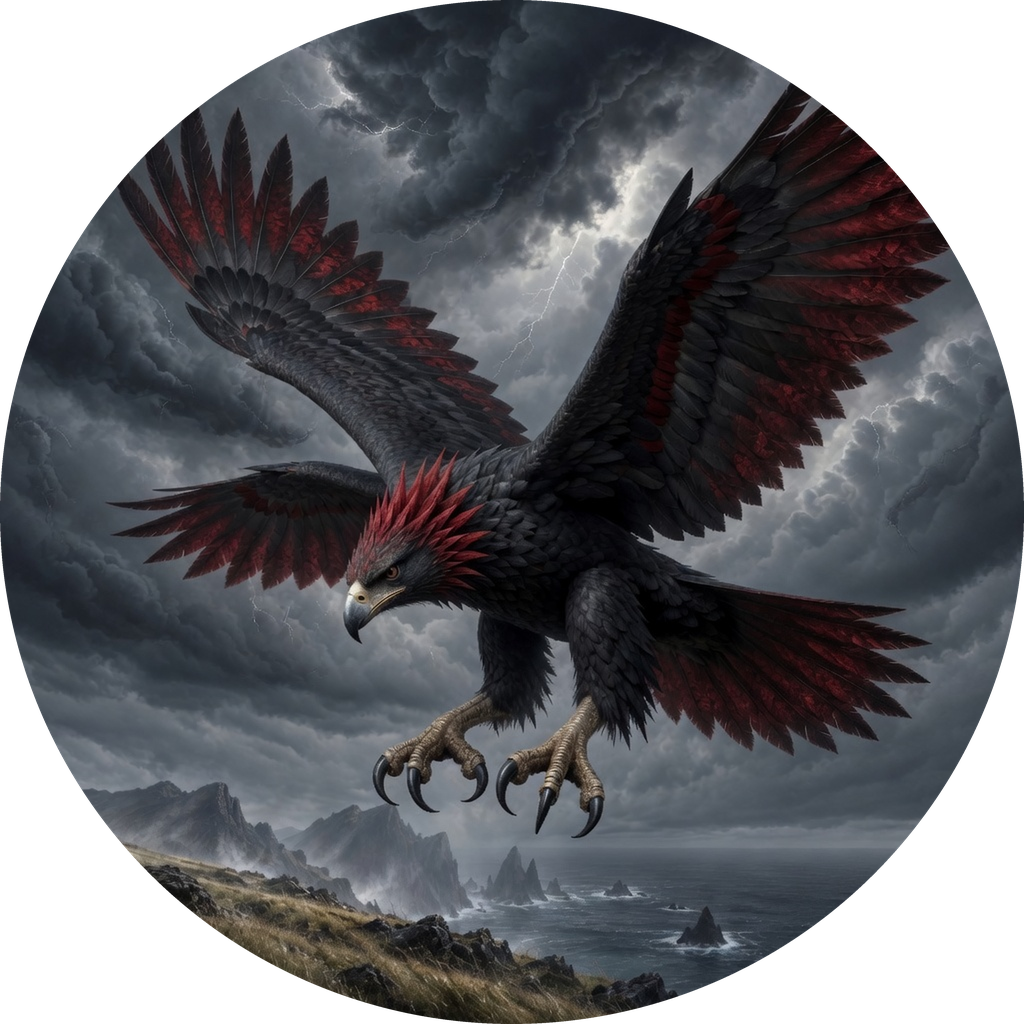
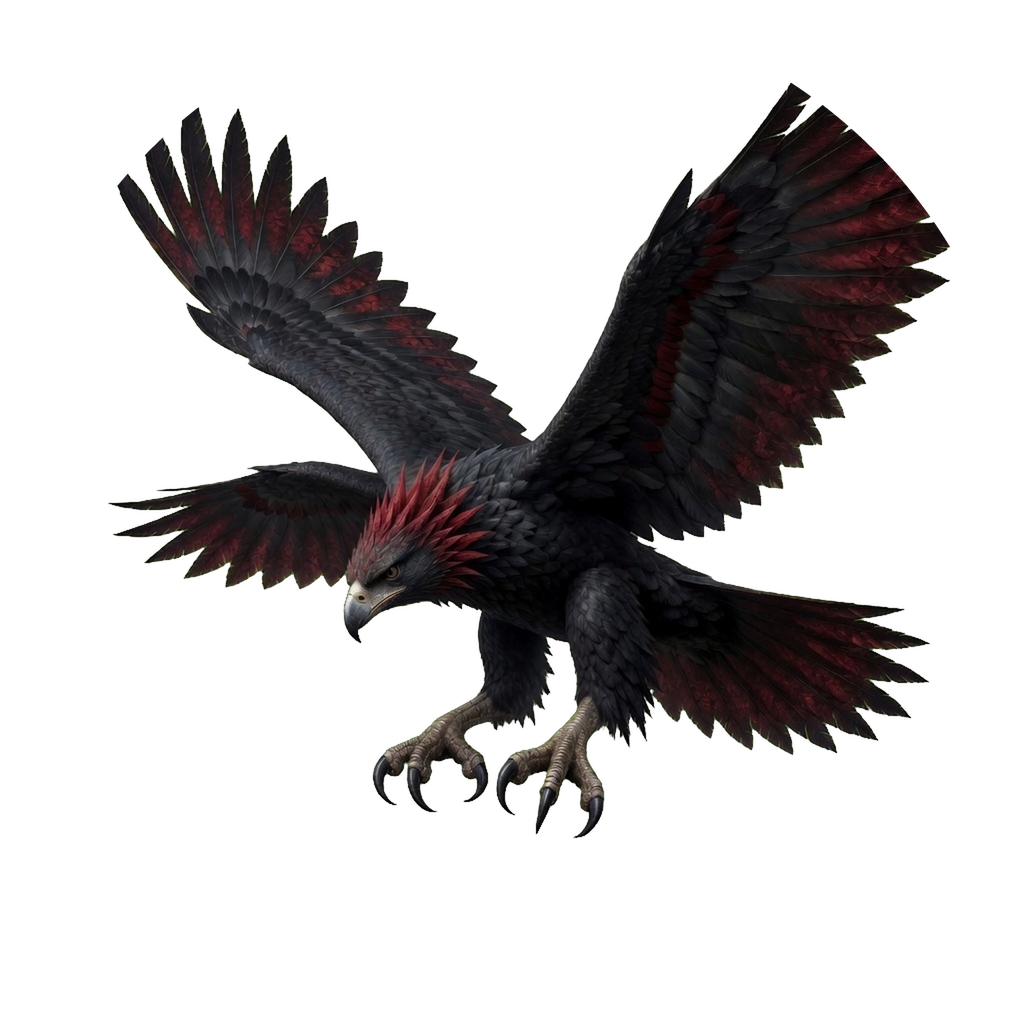
Key Foundry tokens onto full-subject transparency

diff --git a/.agents/skills/foundry-token/SKILL.md b/.agents/skills/foundry-token/SKILL.md
@@ -1,24 +1,27 @@
 ---
 name: foundry-token
 description: >-
-  Circular Foundry VTT token art — generate a stand and iterate until
-  crop-safe, or finalize an existing image into a circular transparent
-  token PNG. Use on any request for a token, token art, token PNG, or
-  converting a creature or NPC image to a Foundry token.
+  Circular Foundry VTT token — generate a crop-safe stand on a key color,
+  isolate the subject onto full transparency, then circular-crop. Use on
+  any request for a token, token art, token PNG, or converting a creature
+  or NPC image to a Foundry token.
 metadata:
   type: workflow
-  version: "3.0"
+  version: "4.0"
 ---
 
 # Foundry token
 
 Two phases. **Art** produces an accepted **stand** — a finished source image
 with stable identity, **crop-safe** composition (subject and details survive a
-centered circular crop), and a **thumbnail-readable** silhouette. **Finalization**
-runs `./scripts/foundry-token` once; the script is the single source of truth
-for pixel operations (centered square cover-crop, resize, anti-aliased circular
-alpha mask). The accepted stand remains unchanged. The final asset is a PNG with
-RGBA alpha, a square canvas, and transparent area outside a centered circle.
+centered circular crop), a **thumbnail-readable** silhouette, and a flat **key**
+color filling every pixel that is not the subject. **Finalization** runs
+`./scripts/foundry-token` once; the script is the single source of truth for
+pixel operations (chroma-key the stand onto transparency, centered square
+cover-crop, resize, anti-aliased circular alpha mask). The accepted stand
+remains unchanged. The final asset is a PNG with RGBA alpha, a square canvas,
+the subject isolated, and transparency everywhere else inside and outside the
+circle.
 
 ## Process
 
@@ -34,22 +37,27 @@ image (or the need to generate one), intended output path, and target size (see
 ### 2. Generate and iterate
 
 When no accepted stand exists, generate the source image with the image tool.
+Read [.agents/references/image-hosts.md](.agents/references/image-hosts.md) for which
+tool to call on the current host.
 Use [references/prompt.md](references/prompt.md) for the prompt template and
 [references/slots.md](references/slots.md) for slot guidance. Generate a square
 source whenever possible.
 
 Keep the subject centered inside the inner 90% of the frame — **crop-safe**.
-Render finished painted art with a background or painted frame; the finalizer
-creates alpha.
+Paint the subject on a flat **key** color from
+[references/slots.md](references/slots.md). Fill every corner. Save the
+accepted stand as PNG so the key field stays flat.
 
 Choose the camera from the request: a readable portrait or action composition
 for stand tokens, overhead only when the user asks for top-down art.
 
 Iterate until the stand is accepted: identity stable, composition **crop-safe**,
-silhouette **thumbnail-readable**, anatomy and gear clean. Repair with
-[references/repair.md](references/repair.md) before finalizing.
+silhouette **thumbnail-readable**, anatomy and gear clean, key field clean
+around the silhouette. Repair with [references/repair.md](references/repair.md)
+before finalizing.
 
-**Done when** the stand is crop-safe, thumbnail-readable, and identity-stable.
+**Done when** the stand is crop-safe, thumbnail-readable, identity-stable, and
+the key color is a clean field around the silhouette.
 
 ### 3. Finalize
 
@@ -62,13 +70,15 @@ Run from the vault root:
   --size 512
 ```
 
-The output argument is optional; without it the command writes beside the source
-as `SOURCE-stem-token.png`. Add `--margin 0.03` when the stand needs transparent
-breathing space around the circle. Add `--force` when intentionally replacing an
-existing final PNG.
+The command keys the stand color to transparency, then applies the circular
+mask. The output argument is optional; without it the command writes beside the
+source as `SOURCE-stem-token.png`. Add `--key lime` when the stand used lime.
+Add `--margin 0.03` when the stand needs transparent breathing space around the
+circle. Add `--force` when intentionally replacing an existing final PNG.
 
-If the center crop loses a meaningful feature, fix the source composition and
-run the command again.
+If the command reports a painted background, replace the stand background with
+the key color and run it again. If the center crop loses a meaningful feature,
+fix the source composition and run the command again.
 
 **Done when** the command reports `created`, the output exists, and the source
 file is unchanged.
@@ -77,19 +87,21 @@ file is unchanged.
 
 Open the final PNG and check:
 
+- Only the subject is opaque. Sky, ground, and leftover key color are gone
+  inside the circle as well as outside it.
 - Four corners show transparency (the script validates PNG format, RGBA mode,
-  dimensions, and circular alpha).
-- Subject, frame, and identifying features stay inside the circle edge.
+  dimensions, circular alpha, and interior isolation).
+- Identifying features stay inside the circle edge.
 - The art is **thumbnail-readable** at token size.
 
-**Done when** machine checks pass and the subject reads at thumbnail size inside
-the circle.
+**Done when** machine checks pass and the isolated subject reads at thumbnail
+size inside the circle.
 
 ### 5. Deliver
 
 Report the final PNG path and one concise import line: file path, grid
-footprint, pixel size, circular-transparent framing, and facing when relevant.
-Keep the accepted stand path for future iterations.
+footprint, pixel size, subject isolated on circular transparent alpha, and
+facing when relevant. Keep the accepted stand path for future iterations.
 
 **Done when** the user has the file and can identify its import size and framing.
 

diff --git a/.agents/skills/foundry-token/references/slots.md b/.agents/skills/foundry-token/references/slots.md
@@ -7,16 +7,16 @@ subject or a bad composition.
 
 Use the creature's intended Foundry footprint:
 
-- \`Tiny\`, \`Small\`, \`Medium\`, \`Large\`, \`Huge\`, or \`Gargantuan\`
+- `Tiny`, `Small`, `Medium`, `Large`, `Huge`, or `Gargantuan`
 
 ## SUBJECT
 
 Name the body plan and subject in ordinary words:
 
-- \`armored skeleton guard\`
-- \`dense swarm of red and black spiders\`
-- \`black jungle eagle in flight\`
-- \`blue-red storm hawk\`
+- `armored skeleton guard`
+- `dense swarm of red and black spiders`
+- `black jungle eagle in flight`
+- `blue-red storm hawk`
 
 ## IDENTITY
 
@@ -27,50 +27,48 @@ Skip details that cannot be seen in the final circle.
 
 Choose the action that makes the owner recognizable:
 
-- \`standing three-quarter guard pose, weapon held clear of the body\`
-- \`swarm mass filling the center, many legs breaking the outer silhouette\`
-- \`wings spread across the circle, talons visible\`
-- \`diving flight, head and talons aimed toward the lower edge\`
+- `standing three-quarter guard pose, weapon held clear of the body`
+- `swarm mass filling the center, many legs breaking the outer silhouette`
+- `wings spread across the circle, talons visible`
+- `diving flight, head and talons aimed toward the lower edge`
 
 ## COMPOSITION
 
 Keep the subject centered and safe for the crop:
 
-- \`centered medallion composition with even breathing room\`
-- \`subject fills the inner two-thirds, open background at the rim\`
-- \`wide wingspan across the middle, no wingtip touches the circle\`
-- \`large central silhouette with supporting scenery kept near the rim\`
+- `centered medallion composition with even breathing room`
+- `subject fills the inner two-thirds, flat key color at the rim`
+- `wide wingspan across the middle, no wingtip touches the circle`
+- `large central silhouette with key color filling the corners`
 
 ## CAMERA
 
-- \`readable stand or portrait view\`
-- \`steep overhead view\` when the user asks for a top-down token
-- \`action view from a clear three-quarter angle\` when the source is a scene token
+- `readable stand or portrait view`
+- `steep overhead view` when the user asks for a top-down token
+- `action view from a clear three-quarter angle` when the source is a scene token
 
 ## FACING
 
-Use \`front-facing\`, \`three-quarter left\`, \`head toward the lower edge\`, or
-\`not applicable\` according to the requested composition.
+Use `front-facing`, `three-quarter left`, `head toward the lower edge`, or
+`not applicable` according to the requested composition.
 
 ## BACKGROUND
 
-Describe the visible setting only when it contributes to the accepted token:
+Use a flat **key** color that does not appear on the owner. Fill every corner.
 
-- \`dark rain and ruined stone\`
-- \`teal cave floor\`
-- \`layered jungle canopy\`
-- \`storm clouds with no text\`
+- `flat #FF00FF magenta fill to the corners` (default)
+- `flat #00FF00 lime fill to the corners` when the subject contains magenta or pink
 
 ## FRAME
 
-- \`no painted frame, clean circular crop\`
-- \`subtle bronze medallion rim kept inside the circle\`
-- \`weathered wood rim with a clean inner image\`
+- `no painted frame, clean circular crop`
+- `subtle bronze medallion rim kept inside the circle`
+- `weathered wood rim with a clean inner image`
 
 ## STYLE
 
 Default:
 
-\`hand-painted fantasy game art, strong graphic silhouette, readable at thumbnail size, coherent light and material texture\`
+`hand-painted fantasy game art, strong graphic silhouette, readable at thumbnail size, coherent light and material texture`
 
 Named styles may replace the default only when the user asks for one.

diff --git a/.agents/skills/foundry-token/references/repair.md b/.agents/skills/foundry-token/references/repair.md
@@ -2,12 +2,13 @@
 
 Repair the source image, then judge it again. Finalize only after the art passes.
 
-- Important feature clipped — \`Pull the camera back and keep the full silhouette inside a centered circular-safe frame.\`
-- Subject too close to the rim — \`Add even breathing room around the subject. Keep all identifying features inside the inner 90 percent.\`
-- Center crop loses the subject — \`Recompose the subject in the center of a square frame. Keep the meaningful action and silhouette visible after a centered crop.\`
-- Weak thumbnail read — \`Strengthen the main silhouette, separate overlapping limbs or wings, and simplify low-value detail.\`
-- Identity drift — \`Restore the established colors, marks, gear, and silhouette. Change only the requested repair.\`
-- Wrong camera — \`Use the requested camera and keep the subject readable inside a centered circular crop.\`
-- Unwanted labels or UI — \`Remove every label, watermark, interface element, and border artifact. Keep only the requested art.\`
-- Fake transparency — \`Render a finished painted background or frame. The finalizer creates alpha.\`
-- Generation debris — \`Clean extra limbs, duplicate weapons, malformed anatomy, and stray marks while preserving the accepted identity.\`
+- Important feature clipped — `Pull the camera back and keep the full silhouette inside a centered circular-safe frame.`
+- Subject too close to the rim — `Add even breathing room around the subject. Keep all identifying features inside the inner 90 percent.`
+- Center crop loses the subject — `Recompose the subject in the center of a square frame. Keep the meaningful action and silhouette visible after a centered crop.`
+- Weak thumbnail read — `Strengthen the main silhouette, separate overlapping limbs or wings, and simplify low-value detail.`
+- Identity drift — `Restore the established colors, marks, gear, and silhouette. Change only the requested repair.`
+- Wrong camera — `Use the requested camera and keep the subject readable inside a centered circular crop.`
+- Unwanted labels or UI — `Remove every label, watermark, interface element, and border artifact. Keep only the requested art.`
+- Painted scenery remains — `Replace every non-subject pixel with the flat key color, filled to the corners. Keep only the subject.`
+- Key color appears on the subject — `Restore the eaten pixels, then switch the background to a key color that does not appear on the owner.`
+- Generation debris — `Clean extra limbs, duplicate weapons, malformed anatomy, and stray marks while preserving the accepted identity.`

diff --git a/.agents/skills/foundry-token/references/foundry.md b/.agents/skills/foundry-token/references/foundry.md
@@ -4,13 +4,13 @@
 
 The repository finalizer makes the import PNG:
 
-\`\`\`bash
+```bash
 ./scripts/foundry-token accepted-source.webp artifacts/tokens/owner-token.png --size 512
-\`\`\`
+```
 
-The command center-crops to a square, resizes, preserves the accepted RGB art
-and existing alpha, then applies a centered circular alpha mask. It never
-overwrites the source.
+The command chroma-keys the stand's flat background to transparency, center-crops
+to a square, resizes, preserves remaining RGB art and alpha, then applies a
+centered circular alpha mask. It never overwrites the source.
 
 ## Sizes
 
@@ -19,29 +19,30 @@ needs:
 
 | Intended footprint | Default final PNG |
 |---|---:|
-| Tiny or Small | \`256x256\` |
-| Medium or one-square token | \`512x512\` |
-| Large or detailed scene token | \`1024x1024\` |
+| Tiny or Small | `256x256` |
+| Medium or one-square token | `512x512` |
+| Large or detailed scene token | `1024x1024` |
 
-Foundry can scale a PNG on import. The finalizer's \`--size\` is the pixel size of
+Foundry can scale a PNG on import. The finalizer's `--size` is the pixel size of
 the file, not the grid footprint.
 
 ## Framing
 
-The output has transparent pixels outside the circle. A painted ring is part of
-the generated source art and is preserved when present; the finalizer does not
-invent one. Use \`--margin 0.03\` when the accepted art needs a small transparent
-breathing space between the frame and the canvas edge.
+The subject is isolated: every non-subject pixel is transparent, including
+interior pixels inside the circle. A painted ring is part of the generated
+source art and is preserved when present; the finalizer does not invent one.
+Use `--margin 0.03` when the accepted art needs a small transparent breathing
+space between the subject and the canvas edge.
 
 ## Facing
 
 The finalizer does not rotate or reinterpret the art. Report the intended
 facing only when the source composition makes facing relevant. Overhead art may
-use Foundry rotation \`0\` for south; a portrait or medallion token has no
+use Foundry rotation `0` for south; a portrait or medallion token has no
 automatic facing rule.
 
 ## Import line
 
 Use one concise line:
 
-\`artifacts/tokens/owner-token.png — Medium 1x1 — 512 px — circular transparent alpha — facing from source art\`
+`artifacts/tokens/owner-token.png — Medium 1x1 — 512 px — subject isolated on circular transparent alpha — facing from source art`

diff --git a/user-corrections.md b/user-corrections.md
@@ -1,5 +1,5 @@
 ---
-summary: Nick's correction log. Writers append on #ERROR; ASD drains. Open: over-scoped `.agent` typo.
+summary: Nick's correction log. Writers append on #ERROR; ASD drains. Open: over-scoped `.agent` typo; token subject isolation.
 ---
 
 # User corrections
@@ -770,3 +770,17 @@ Future `foundry-battlemap` upgrades should add a vehicle or deck-plan mode with 
 **status:** closed
 
 **Fix:** Apply the user's requested wiki shape and content directly in the young Bloodhawk owner task that follows. No skill change in this turn.
+
+### 2026-09-11 — Token subject isolation
+
+**Error:** Foundry token finalization treated a circular crop of painted scenery as a transparent token. The Bloodhawk token kept storm sky and cliff inside the circle; only the corners outside the circle were transparent.
+
+**Correction:** The finished token isolates the subject on full transparency. Remove the entire background — sky, ground, and scenery inside the circle — not only the pixels outside the circular mask.
+
+**Read:** `.agents/skills/foundry-token/SKILL.md`; `.agents/skills/foundry-token/references/prompt.md`; `.agents/skills/foundry-token/references/slots.md`; `.agents/skills/foundry-token/references/repair.md`; `.agents/skills/foundry-token/references/foundry.md`; `.agents/skills/foundry-token/assets/prompt-template.txt`; `scripts/foundry-token`; `.agents/skills/writing-for-agents/SKILL.md`; `artifacts/tokens/aruhe-bloodhawk-token.png`
+
+**count:** 1
+
+**status:** open
+
+**Fix:** `.agents/skills/foundry-token/SKILL.md` v4.0; `references/prompt.md`; `references/slots.md`; `references/repair.md`; `references/foundry.md`; `assets/prompt-template.txt`; `scripts/foundry-token` — stands generate on a flat key color; the CLI chroma-keys that field (sampling imperfect screens, despilling the edge), refuses painted scenery, then circular-crops. Verify requires interior isolation, not corner transparency alone. Bloodhawk token re-keyed. Measure after drain. Cheap check: `rg -n 'key color|subject isolated' .agents/skills/foundry-token/SKILL.md scripts/foundry-token`.

diff --git a/.agents/skills/foundry-token/references/prompt.md b/.agents/skills/foundry-token/references/prompt.md
@@ -1,9 +1,10 @@
 # Source-art prompt
 
 Use this prompt before finalization. Generate the source art first; the
-repository command creates alpha after the art is accepted.
+repository command keys the background and creates circular alpha after the
+art is accepted.
 
-\`\`\`
+```
 Foundry VTT token source art. Square 1:1 composition designed to remain readable
 inside a centered circular crop.
 
@@ -18,15 +19,15 @@ Background: {BACKGROUND}.
 Frame: {FRAME}.
 Style: {STYLE}.
 
-Readable at token thumbnail size. Strong subject silhouette. Coherent lighting,
-grounding, and material detail. Clean anatomy and consistent gear throughout.
-Render a finished painted background or frame; the finalizer supplies circular
-alpha.
-\`\`\`
+Readable at token thumbnail size. Strong subject silhouette. Coherent lighting
+and material detail. Clean anatomy and consistent gear throughout.
+Paint the subject on a flat key color that fills every corner; the finalizer
+keys that color to transparency and supplies circular alpha.
+```
 
 If the same owner has an existing identity reference, add:
 
-\`Keep this identity. Preserve the same colors, silhouette, marks, and gear; change only the requested composition or camera.\`
+`Keep this identity. Preserve the same colors, silhouette, marks, and gear; change only the requested composition or camera.`
 
 Use [../assets/prompt-template.txt](../assets/prompt-template.txt) as the
 copyable blank.
